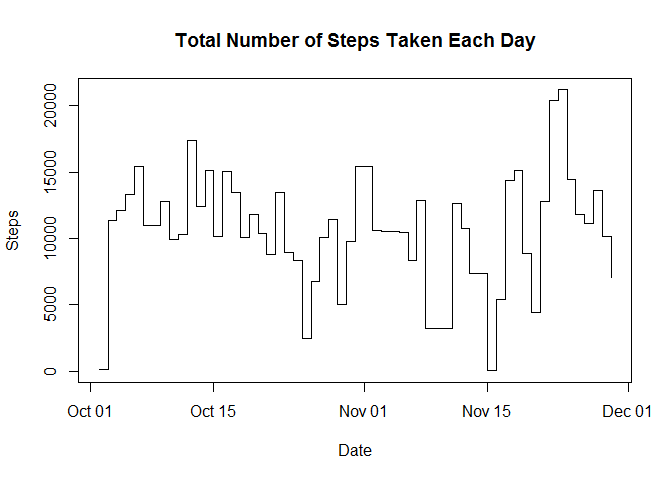
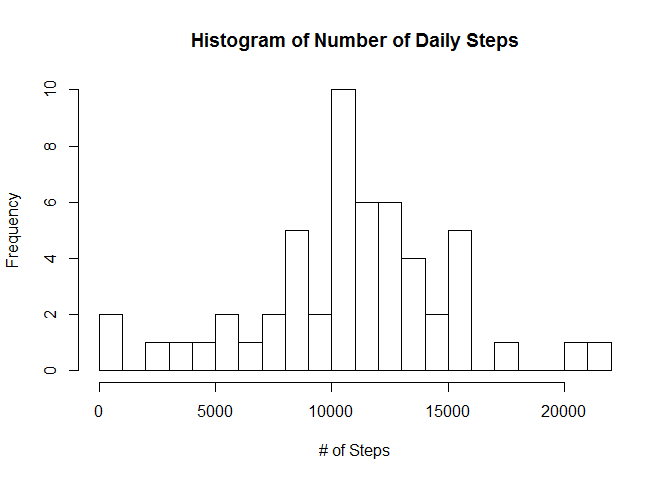
Fixed the histogram

diff --git a/PA1_template.html b/PA1_template.html
@@ -232,26 +232,16 @@ df_activity$date  &lt;-as.Date(df_activity$date,&quot;%Y-%m-%e&quot;)
 df_activity_date_steps &lt;- aggregate(steps ~ date, df_activity, FUN = sum)
 
 
-# histogram example #1
-#?plot
-plot(x = df_activity_date_steps$date
-     , y = df_activity_date_steps$steps
-     , type = &quot;s&quot;
-     , xlab = &quot;Date&quot;
-     , ylab = &quot;Steps&quot;
-     , main = &quot;Total Number of Steps Taken Each Day&quot;
+# yup - i screwed this up.  i had to replace the barplot with a histogram.
+# setting the # of breaks a little higher to show a little more granularity.
+#?hist
+
+hist(df_activity_date_steps$steps
+     , xlab = &quot;# of Steps&quot;
+     , main = &quot;Histogram of Number of Daily Steps&quot;
+     , breaks = 20
 )</code></pre>
[1 lines of base64/hex data omitted]
-<pre class="r"><code># histogram example #2
-#?barplot
-barplot(height = df_activity_date_steps$steps
-        #, type = &quot;s&quot;
-        , xlab = &quot;Date&quot;
-        , ylab = &quot;Steps&quot;
-        , names.arg = df_activity_date_steps$date
-        , main = &quot;Total Number of Steps Taken Each Day&quot;
-        )</code></pre>
[2 lines of base64/hex data omitted]
 <pre class="r"><code>avg_steps &lt;- mean(df_activity_date_steps$steps)
 median_steps &lt;- median(df_activity_date_steps$steps)
 
@@ -419,25 +409,16 @@ df_activity_filled_date_steps &lt;- aggregate(steps ~ date, df_activity_filled, 
 
 
 
-# histogram example #1
-#?plot
-plot(x = df_activity_filled_date_steps$date
-     , y = df_activity_filled_date_steps$steps
-     , type = &quot;s&quot;
-     , xlab = &quot;Date&quot;
-     , ylab = &quot;Steps&quot;
-     , main = &quot;Total Number of Steps Taken Each Day&quot;
+# yup - i screwed this up.  i had to replace the barplot with a histogram.
+# setting the # of breaks a little higher to show a little more granularity.
+#?hist
+
+hist(df_activity_filled_date_steps$steps
+     , xlab = &quot;# of Steps&quot;
+     , main = &quot;Histogram of Number of Daily Steps&quot;
+     , breaks = 20
 )</code></pre>
[1 lines of base64/hex data omitted]
-<pre class="r"><code># histogram example #2
-#?barplot
-barplot(height = df_activity_filled_date_steps$steps
-        , xlab = &quot;Date&quot;
-        , ylab = &quot;Steps&quot;
-        , names.arg = df_activity_filled_date_steps$date
-        , main = &quot;Total Number of Steps Taken Each Day&quot;
-)</code></pre>
[2 lines of base64/hex data omitted]
 <pre class="r"><code>head(df_activity_filled_date_steps, 10)</code></pre>
 <pre><code>##          date    steps
 ## 1  2012-10-01 10766.19

diff --git a/PA1_template.md b/PA1_template.md
@@ -150,32 +150,18 @@ df_activity$date  <-as.Date(df_activity$date,"%Y-%m-%e")
 df_activity_date_steps <- aggregate(steps ~ date, df_activity, FUN = sum)
 
 
-# histogram example #1
-#?plot
-plot(x = df_activity_date_steps$date
-     , y = df_activity_date_steps$steps
-     , type = "s"
-     , xlab = "Date"
-     , ylab = "Steps"
-     , main = "Total Number of Steps Taken Each Day"
+# yup - i screwed this up.  i had to replace the barplot with a histogram.
+# setting the # of breaks a little higher to show a little more granularity.
+#?hist
+
+hist(df_activity_date_steps$steps
+     , xlab = "# of Steps"
+     , main = "Histogram of Number of Daily Steps"
+     , breaks = 20
 )
 ```
 
 ![](PA1_template_files/figure-html/unnamed-chunk-3-1.png)<!-- -->
-
-```r
-# histogram example #2
-#?barplot
-barplot(height = df_activity_date_steps$steps
-        #, type = "s"
-        , xlab = "Date"
-        , ylab = "Steps"
-        , names.arg = df_activity_date_steps$date
-        , main = "Total Number of Steps Taken Each Day"
-        )
-```
-
-![](PA1_template_files/figure-html/unnamed-chunk-3-2.png)<!-- -->
 
 ```r
 avg_steps <- mean(df_activity_date_steps$steps)
@@ -418,31 +404,18 @@ df_activity_filled_date_steps <- aggregate(steps ~ date, df_activity_filled, FUN
 
 
 
-# histogram example #1
-#?plot
-plot(x = df_activity_filled_date_steps$date
-     , y = df_activity_filled_date_steps$steps
-     , type = "s"
-     , xlab = "Date"
-     , ylab = "Steps"
-     , main = "Total Number of Steps Taken Each Day"
+# yup - i screwed this up.  i had to replace the barplot with a histogram.
+# setting the # of breaks a little higher to show a little more granularity.
+#?hist
+
+hist(df_activity_filled_date_steps$steps
+     , xlab = "# of Steps"
+     , main = "Histogram of Number of Daily Steps"
+     , breaks = 20
 )
 ```
 
 ![](PA1_template_files/figure-html/unnamed-chunk-5-1.png)<!-- -->
-
-```r
-# histogram example #2
-#?barplot
-barplot(height = df_activity_filled_date_steps$steps
-        , xlab = "Date"
-        , ylab = "Steps"
-        , names.arg = df_activity_filled_date_steps$date
-        , main = "Total Number of Steps Taken Each Day"
-)
-```
-
-![](PA1_template_files/figure-html/unnamed-chunk-5-2.png)<!-- -->
 
 ```r
 head(df_activity_filled_date_steps, 10)
